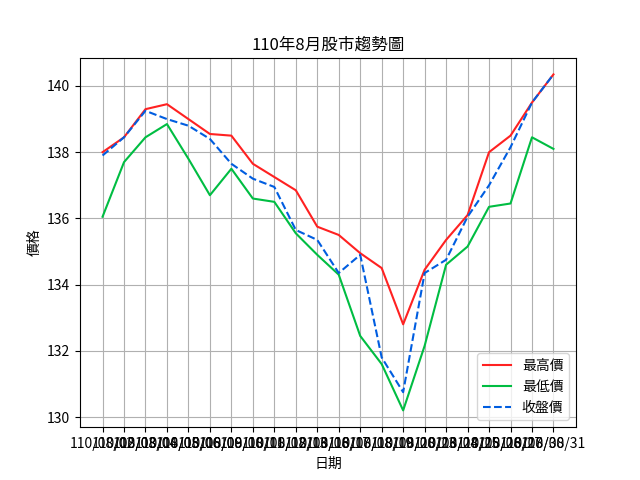
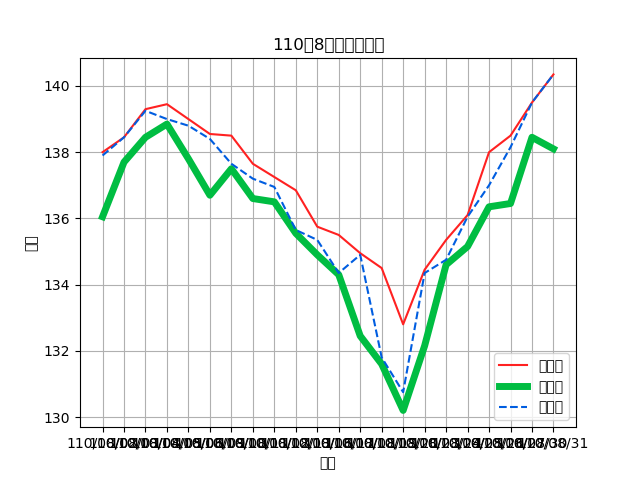
project06 code

diff --git a/Projects/06_Stock_price/matplotlib_chart.py b/Projects/06_Stock_price/matplotlib_chart.py
@@ -16,8 +16,8 @@ plt.rcParams['font.sans-serif'] = ['Taipei Sans TC Beta']
 
 # 繪圖
 plt.plot(date, high_price, color="#ff2121")
-plt.plot(date, low_price, color="#00bd42")
-plt.plot(date, end_price, color="#005de0", linestyle="--")
+plt.plot(date, low_price, color="#00bd42", linewidth=5)
+plt.plot(date, end_price, color="#005de0", linestyle="dashed")
 plt.xlabel("日期")
 plt.ylabel("價格")
 plt.legend(["最高價", "最低價", "收盤價"], loc="lower right")
